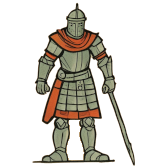
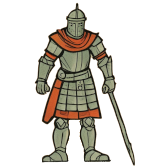
more characters

diff --git a/game/savegame/travel/TilesCanvasRenderer.js b/game/savegame/travel/TilesCanvasRenderer.js
@@ -95,7 +95,7 @@ export default class TilesCanvasRenderer extends CanvasRenderer {
 		);
 
 		this.game.assets.loadImage(
-			'img/character/wizard.png',
+			'img/character/shaman.png',
 			(img) => {
 				this.follower1 = img;
 				this.renderInternal();
@@ -103,7 +103,7 @@ export default class TilesCanvasRenderer extends CanvasRenderer {
 		);
 
 		this.game.assets.loadImage(
-			'img/character/rogue-black.png',
+			'img/character/archer.png',
 			(img) => {
 				this.follower2 = img;
 				this.renderInternal();
@@ -359,8 +359,8 @@ export default class TilesCanvasRenderer extends CanvasRenderer {
 
 			const tileStart = tileCenter.subtract(this.model.tiles.tileSizeHalf).round();
 
-			const padding = new Vector2(0, this.model.tiles.tileSize.y * 0.1);
-			const leaderSize = this.model.tiles.tileSize.multiply(0.75);
+			const padding = new Vector2(this.model.tiles.tileSize.x * -0.2, 0);
+			const leaderSize = this.model.tiles.tileSize;
 			const followerSize = leaderSize.multiply(0.85);
 
 			if (tile.isWater()) {
@@ -368,7 +368,7 @@ export default class TilesCanvasRenderer extends CanvasRenderer {
 				if (this.ship) {
 					this.drawImage(
 						this.ship,
-						tileStart,
+						tileStart.add(new Vector2(0, this.model.tiles.tileSize.y * 0.1)),
 						this.model.tiles.tileSize,
 						new Vector2(0, 0),
 						new Vector2(this.ship.width, this.ship.height),

diff --git a/game/resources/unitType/UnitTypesResource.js b/game/resources/unitType/UnitTypesResource.js
@@ -7,6 +7,7 @@ import ArrayHelper from "wgge/core/helper/ArrayHelper";
 import DarkKnightUnit from "./types/DarkKnightUnit";
 import LionUnit from "./types/LionUnit";
 import SharksUnit from "./types/SharksUnit";
+import RogueUnit from "./types/RogueUnit";
 
 export default class UnitTypesResource extends ModelNodeTable {
 
@@ -19,6 +20,7 @@ export default class UnitTypesResource extends ModelNodeTable {
 		this.add(new OrcUnit());
 		this.add(new LionUnit());
 		this.add(new SharksUnit());
+		this.add(new RogueUnit());
 
 	}
 

diff --git a/game/resources/unitType/types/RogueUnit.js b/game/resources/unitType/types/RogueUnit.js
@@ -1,0 +1,12 @@
+import UnitTypeResource from "../UnitTypeResource";
+
+export default class RogueUnit extends UnitTypeResource {
+
+	constructor(id) {
+		super(id);
+
+		this.name.set('Rogue');
+		this.image.set('img/character/rogue-color.png');
+
+	}
+}
